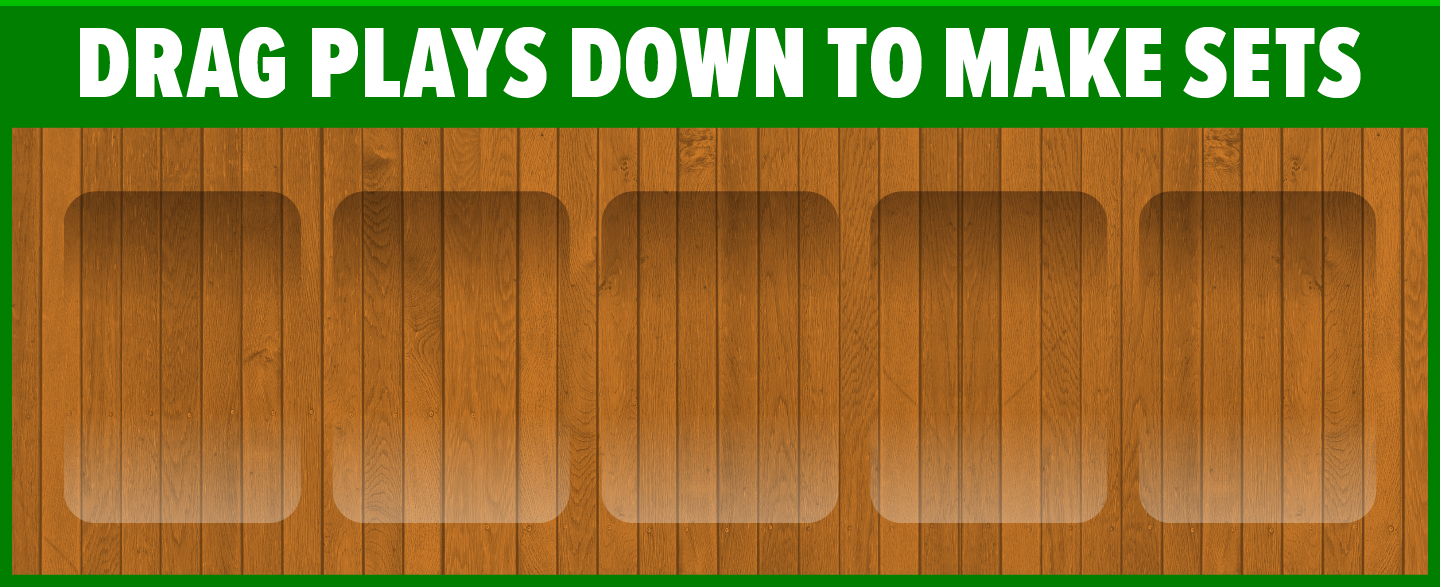
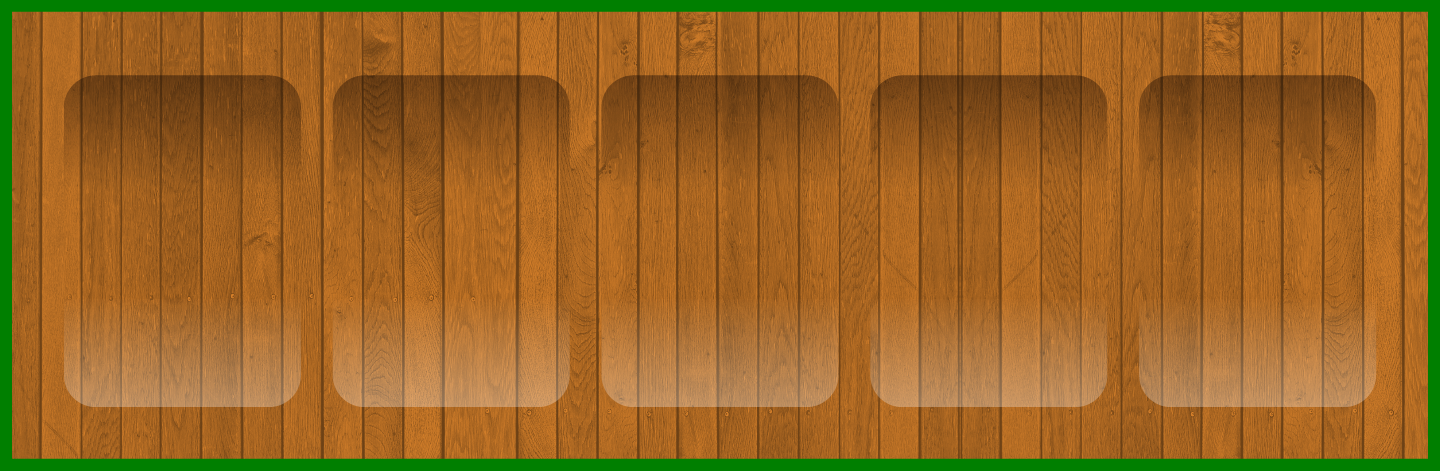
UX improvements for collection screen.

diff --git a/webgl/collection.js b/webgl/collection.js
@@ -841,8 +841,28 @@ function updateGoals(goalSets) {
   const tray = stage.getChildByName('tray');
   const stageGoalBar = stage.getChildByName('goalBar');
   const goalsContainer = stage.getChildByName('goalsContainer');
-  const goalsContainerHeight = 128.0 * contentScale * Object.keys(goalSets).length;
+  let goalsContainerHeight = 128.0 * contentScale * Object.keys(goalSets).length;
   goalsContainer.removeChildren();
+
+  if (Object.keys(goalSets).length > 0) {
+    goalsContainerHeight += 128.0 * contentScale;
+
+    const goalBarTexture = PIXI.loader.resources['resources/Collection-Bar-Yellow-9x16.png'].texture;
+    const goalBarHeight = goalBarTexture.height * contentScale;
+    const goalBar = new PIXI.extras.TilingSprite(goalBarTexture, window.innerWidth, goalBarHeight);
+    goalBar.anchor.set(0.0, 0.0);
+    goalBar.tileScale.set(1.0, contentScale);
+
+    const goalBarText = new PIXI.Text('Pick a set:'.toUpperCase());
+    goalBarText.style.fill = 0x806200;
+    goalBarText.style.fontFamily = 'proxima-nova-excn';
+    goalBarText.style.fontSize = 104 * contentScale;
+    goalBarText.anchor.set(0.0, 0.5);
+    goalBarText.position.set(96 * contentScale, goalBarHeight / 2);
+    goalBar.addChild(goalBarText);
+
+    goalsContainer.addChild(goalBar);
+  }
 
   Object.keys(goalSets).map((goal, index) => {
     const score = GoalTypesMetadata[goal].score;
@@ -856,7 +876,7 @@ function updateGoals(goalSets) {
     const goalBar = new PIXI.extras.TilingSprite(goalBarTexture, window.innerWidth, goalBarHeight);
     goalBar.anchor.set(0.0, 0.0);
     goalBar.tileScale.set(1.0, contentScale);
-    goalBar.position.set(0.0, goalBarHeight * index);
+    goalBar.position.set(0.0, goalBarHeight * (index + 1));
 
     const goalBarShadowTexture = PIXI.loader.resources['resources/Collection-Shadow-9x16.png'].texture;
     const goalBarShadowHeight = goalBarHeight;
@@ -891,7 +911,7 @@ function updateGoals(goalSets) {
     goalBarHighlight.visible = false;
     goalBar.addChild(goalBarHighlight);
 
-    initGoalBarEvents(goalBar, goal, goalSets[goal]);
+    initGoalChoiceEvents(goalBar, goal, goalSets[goal]);
     goalsContainer.addChild(goalBar);
   });
 
@@ -905,7 +925,7 @@ function updateGoals(goalSets) {
  * @param {string} goal
  * @param {Array.<Card>} matchingCards
  */
-function initGoalBarEvents(goalBar, goal, matchingCards) {
+function initGoalChoiceEvents(goalBar, goal, matchingCards) {
   goalBar.interactive = true;
 
   function onTouchStart() {
@@ -1207,7 +1227,9 @@ function assignCardToSlot(card, slot) {
   // Copy card into slot list.
   state.cardSlots[slot].card = card;
   state.cardSlots[slot].present = true;
-  state.activeCard = null;
+  if (card === state.activeCard) {
+    state.activeCard = null;
+  }
 
   card.moveToSlot(slot);
   card.isActive = false;
@@ -1601,6 +1623,16 @@ function updateTrophy(goal) {
   }));
 }
 
+/**
+ * Initializes events for the score bar.
+ * @param {PIXI.Graphics} trayTip
+ */
+function initTrayTipEvents(trayTip) {
+  state.emitter.on(state.EVENT_ACTIVE_CARD_CHANGED, (activeCard) => {
+    trayTip.visible = activeCard !== null;
+  });
+}
+
 function setup() {
   // Add background to screen.
   const bgTexture = PIXI.loader.resources['resources/Collection-BG-Wood.jpg'].texture;
@@ -1623,6 +1655,16 @@ function setup() {
   // Use the tray scale as a scaling baseline.
   contentScale = tray.scale.x;
 
+  // Add a small brighter green edge.
+  const trayEdge = new PIXI.Graphics();
+  const trayEdgeHeight = 6.0 * contentScale;
+  trayEdge.beginFill(0x00bf00);
+  trayEdge.drawRect(0, 0, window.innerWidth, trayEdgeHeight);
+  trayEdge.endFill();
+  trayEdge.name = 'trayEdge';
+  trayEdge.position.set(0, window.innerHeight - trayHeight - trayEdgeHeight);
+  stage.addChild(trayEdge);
+
   // Add score bar
   const scoreBarTexture = PIXI.loader.resources['resources/Collection-Bar-Gold-9x16.png'].texture;
   const scoreBarHeight = scoreBarTexture.height * contentScale;
@@ -1637,7 +1679,7 @@ function setup() {
   const scoreBarShadowHeight = scoreBarHeight;
   const scoreBarShadow = new PIXI.extras.TilingSprite(scoreBarShadowTexture, window.innerWidth / 2, scoreBarHeight);
   scoreBarShadow.name = 'shadow';
-  scoreBarShadow.position.set(0, window.innerHeight - trayHeight - scoreBarHeight);
+  scoreBarShadow.position.set(0, window.innerHeight - trayHeight - scoreBarShadowHeight);
   scoreBarShadow.tileScale.set(1, contentScale);
   stage.addChild(scoreBarShadow);
 
@@ -1724,6 +1766,56 @@ function setup() {
   goalSprite.anchor.set(1.0, 1.0);
   stage.addChild(goalSprite);
 
+  // Add score button
+  const scoreButtonTexture = PIXI.loader.resources['resources/Collection-Star-9x16.png'].texture;
+  const scoreButton = new PIXI.Sprite(scoreButtonTexture);
+  scoreButton.name = 'scoreButton';
+  scoreButton.anchor.set(0.5, 0.5);
+  stage.addChild(scoreButton);
+
+  // Add "drag plays down to make sets".
+  const trayTip = new PIXI.Graphics();
+  const trayTipHeight = 110.0 * contentScale;
+  trayTip.beginFill(0x000000, 0.5);
+  trayTip.drawRect(0, 0, window.innerWidth, window.innerHeight - trayHeight - trayTipHeight);
+  trayTip.endFill();
+  trayTip.beginFill(0x00bf00);
+  trayTip.drawRect(
+    0, window.innerHeight - trayHeight - trayTipHeight,
+    window.innerWidth, trayEdgeHeight
+  );
+  trayTip.endFill();
+  trayTip.beginFill(0x007f00);
+  trayTip.drawRect(
+    0, window.innerHeight - trayHeight - trayTipHeight + trayEdgeHeight,
+    window.innerWidth, trayTipHeight
+  );
+  trayTip.endFill();
+  trayTip.name = 'trayTip';
+  trayTip.visible = false;
+  initTrayTipEvents(trayTip);
+  stage.addChild(trayTip);
+
+  const trayTipShadowTexture = PIXI.loader.resources['resources/Collection-Shadow-9x16.png'].texture;
+  const trayTipShadowHeight = trayTipShadowTexture.height * contentScale;
+  const trayTipShadow = new PIXI.extras.TilingSprite(trayTipShadowTexture, window.innerWidth, trayTipShadowHeight);
+  trayTipShadow.name = 'trayTipShadow';
+  trayTipShadow.anchor.set(0.0, 1.0);
+  trayTipShadow.tileScale.set(1.0, contentScale);
+  trayTip.addChild(trayTipShadow);
+
+  const trayTipText = new PIXI.Text('Drag Plays Down to Make Sets'.toUpperCase());
+  trayTipText.position.set(
+    window.innerWidth / 2,
+    (window.innerHeight - trayHeight - trayTipHeight) + trayTipHeight / 2 + trayEdgeHeight
+  );
+  trayTipText.anchor.set(0.5, 0.5);
+  trayTipText.style.fontFamily = 'proxima-nova-excn';
+  trayTipText.style.fill = 0xffffff;
+  trayTipText.style.fontWeight = 900;
+  trayTipText.style.fontSize = 104 * contentScale;
+  trayTip.addChild(trayTipText);
+
   // Add Drag to Discard Banner
   const discard = new PIXI.Graphics();
   const discardHeight = 128.0 * contentScale;
@@ -1758,20 +1850,9 @@ function setup() {
   discardText.style.align = 'center';
   discard.addChild(discardText);
 
-  //Add Drag to Score button
-
-  //Add score button
-  const scoreButtonTexture = PIXI.loader.resources['resources/Collection-Star-9x16.png'].texture;
-  const scoreButton = new PIXI.Sprite(scoreButtonTexture);
-  const scoreButtonScale = (window.innerWidth - 128 * 2) / scoreButtonTexture.width;
-  const scoreButtonHeight = window.innerHeight - 128 * 2 - trayHeight - scoreBarHeight - discardHeight;
-  scoreButton.name = 'scoreButton';
-  scoreButton.anchor.set(0.5, 0.5);
-  stage.addChild(scoreButton);
+  // Generate a random goal.
   invalidateScoreButton();
   initScoreButtonEvents(scoreButton);
-
-  // Generate a random goal.
   initGoalEvents(goalSprite);
   initSelectedGoalEvent();
 
